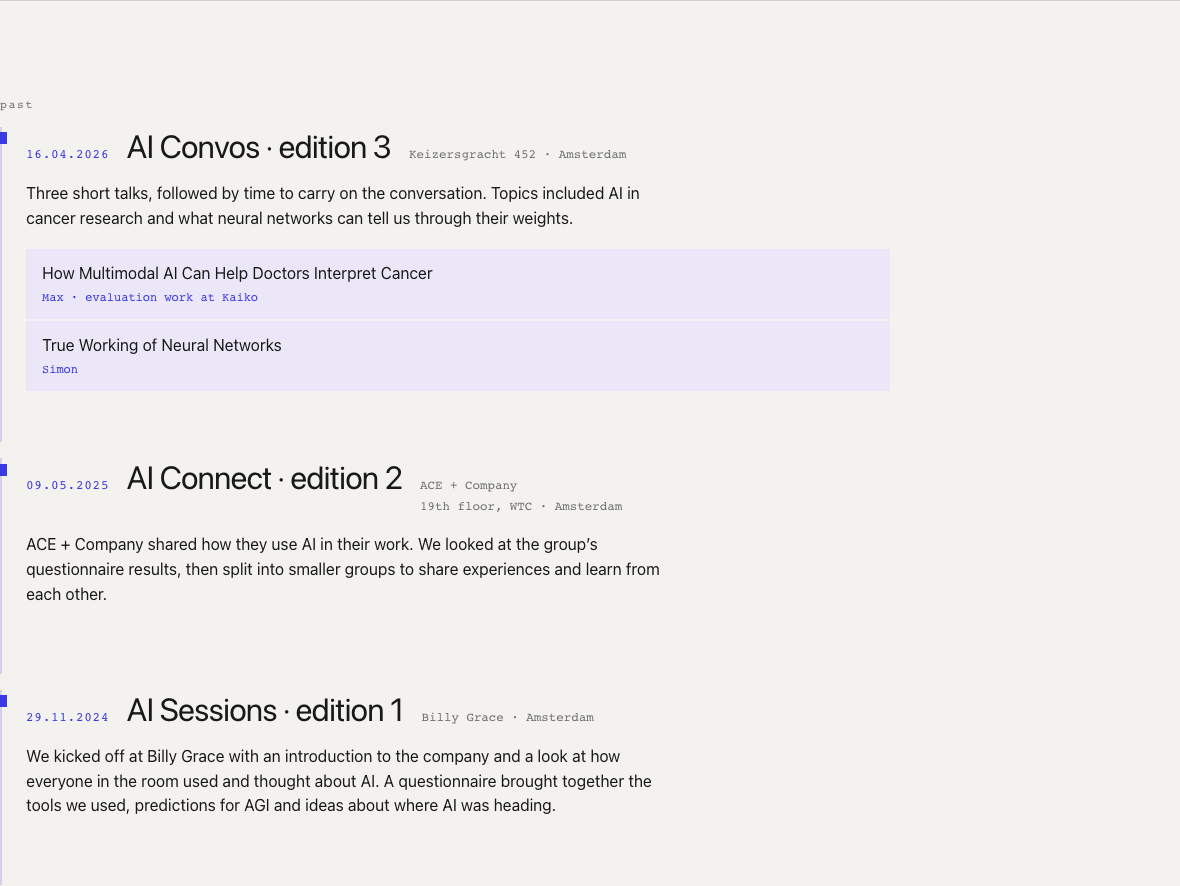
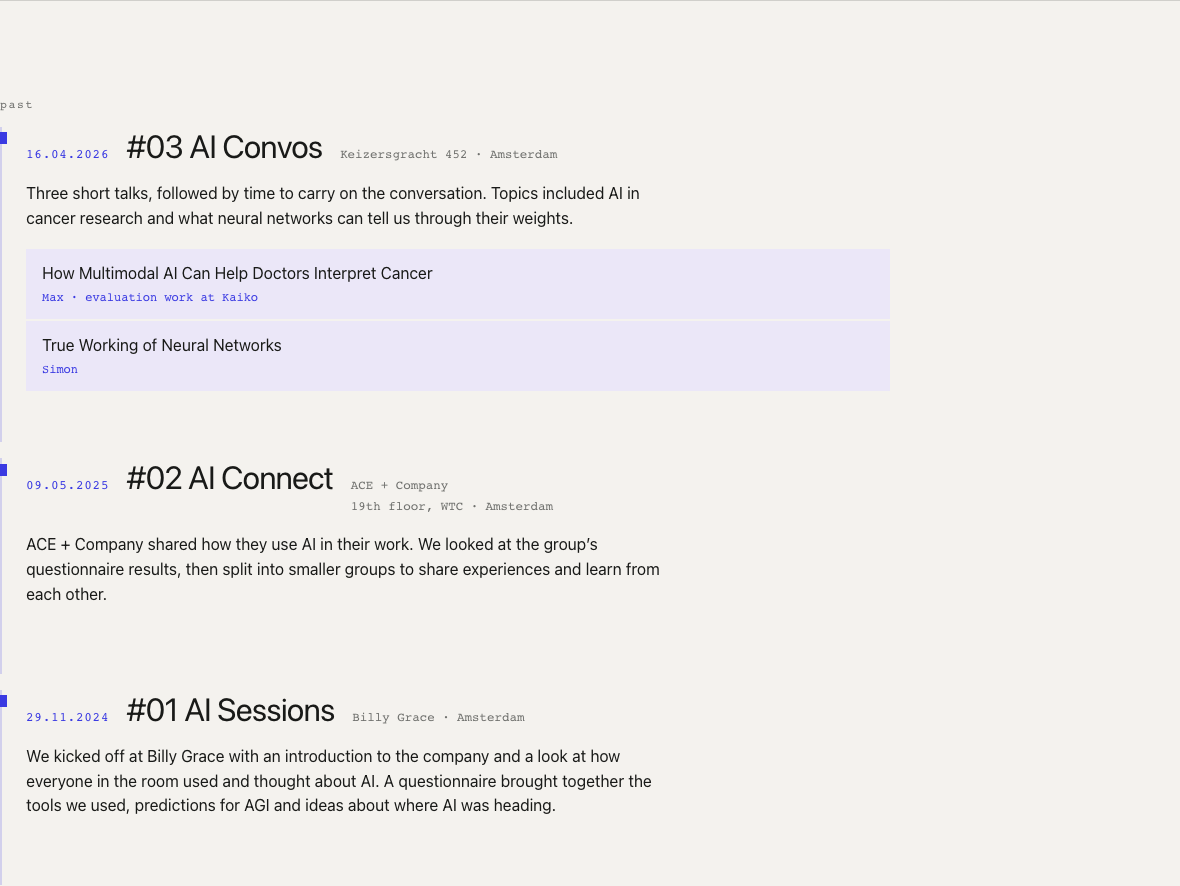
Use numbered past event headings

Changed region(s): [[0.0915, 0.5181, 0.5186, 0.579], [0.0915, 0.1524, 0.5186, 0.1828], [0.0915, 0.7923, 0.4881, 0.8228]]

diff --git a/index.html b/index.html
@@ -273,7 +273,7 @@
       <article class="past-event">
         <div class="past-heading">
           <time class="past-date" datetime="2026-04-16">16.04.2026</time>
-          <div class="past-title">AI Convos · edition 3</div>
+          <div class="past-title">#03 AI Convos</div>
           <div class="past-meta">Keizersgracht 452 · Amsterdam</div>
         </div>
         <p class="past-summary">Three short talks, followed by time to carry on the conversation. Topics included AI in cancer research and what neural networks can tell us through their weights.</p>
@@ -291,7 +291,7 @@
       <article class="past-event">
         <div class="past-heading">
           <time class="past-date" datetime="2025-05-09">09.05.2025</time>
-          <div class="past-title">AI Connect · edition 2</div>
+          <div class="past-title">#02 AI Connect</div>
           <div class="past-meta">ACE + Company<br>19th floor, WTC · Amsterdam</div>
         </div>
         <p class="past-summary">ACE + Company shared how they use AI in their work. We looked at the group’s questionnaire results, then split into smaller groups to share experiences and learn from each other.</p>
@@ -299,7 +299,7 @@
       <article class="past-event">
         <div class="past-heading">
           <time class="past-date" datetime="2024-11-29">29.11.2024</time>
-          <div class="past-title">AI Sessions · edition 1</div>
+          <div class="past-title">#01 AI Sessions</div>
           <div class="past-meta">Billy Grace · Amsterdam</div>
         </div>
         <p class="past-summary">We kicked off at Billy Grace with an introduction to the company and a look at how everyone in the room used and thought about AI. A questionnaire brought together the tools we used, predictions for AGI and ideas about where AI was heading.</p>
